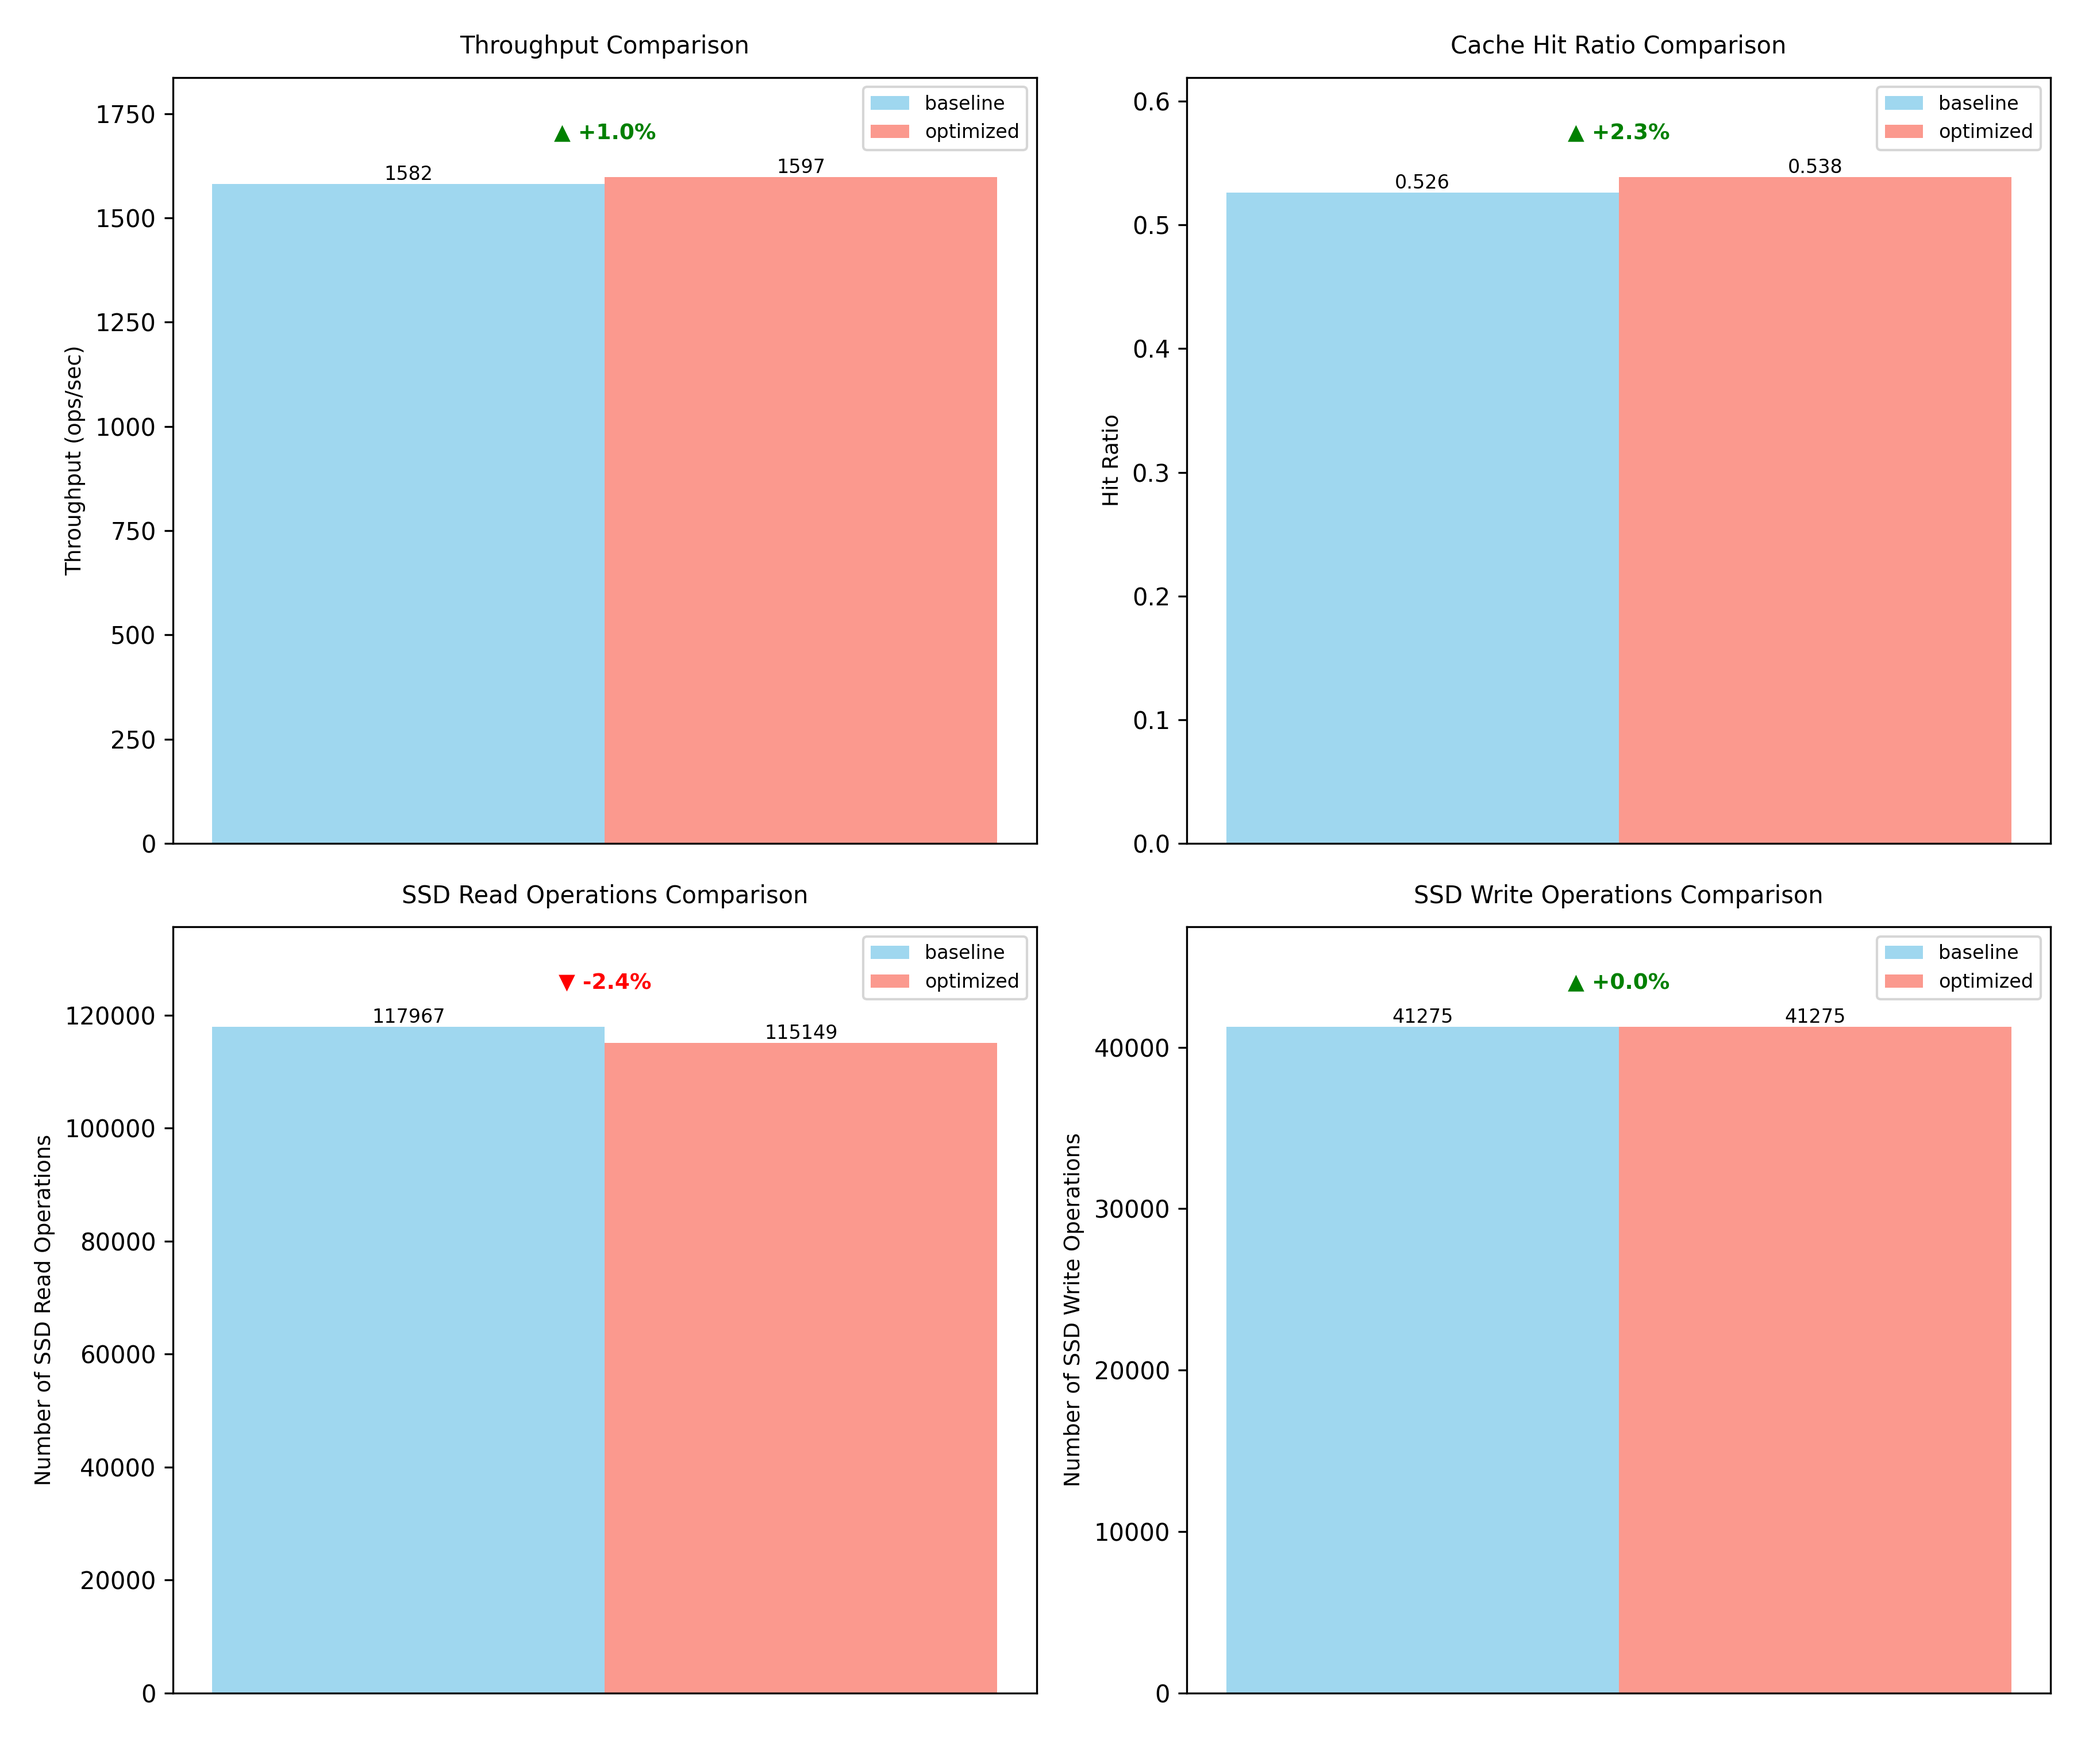
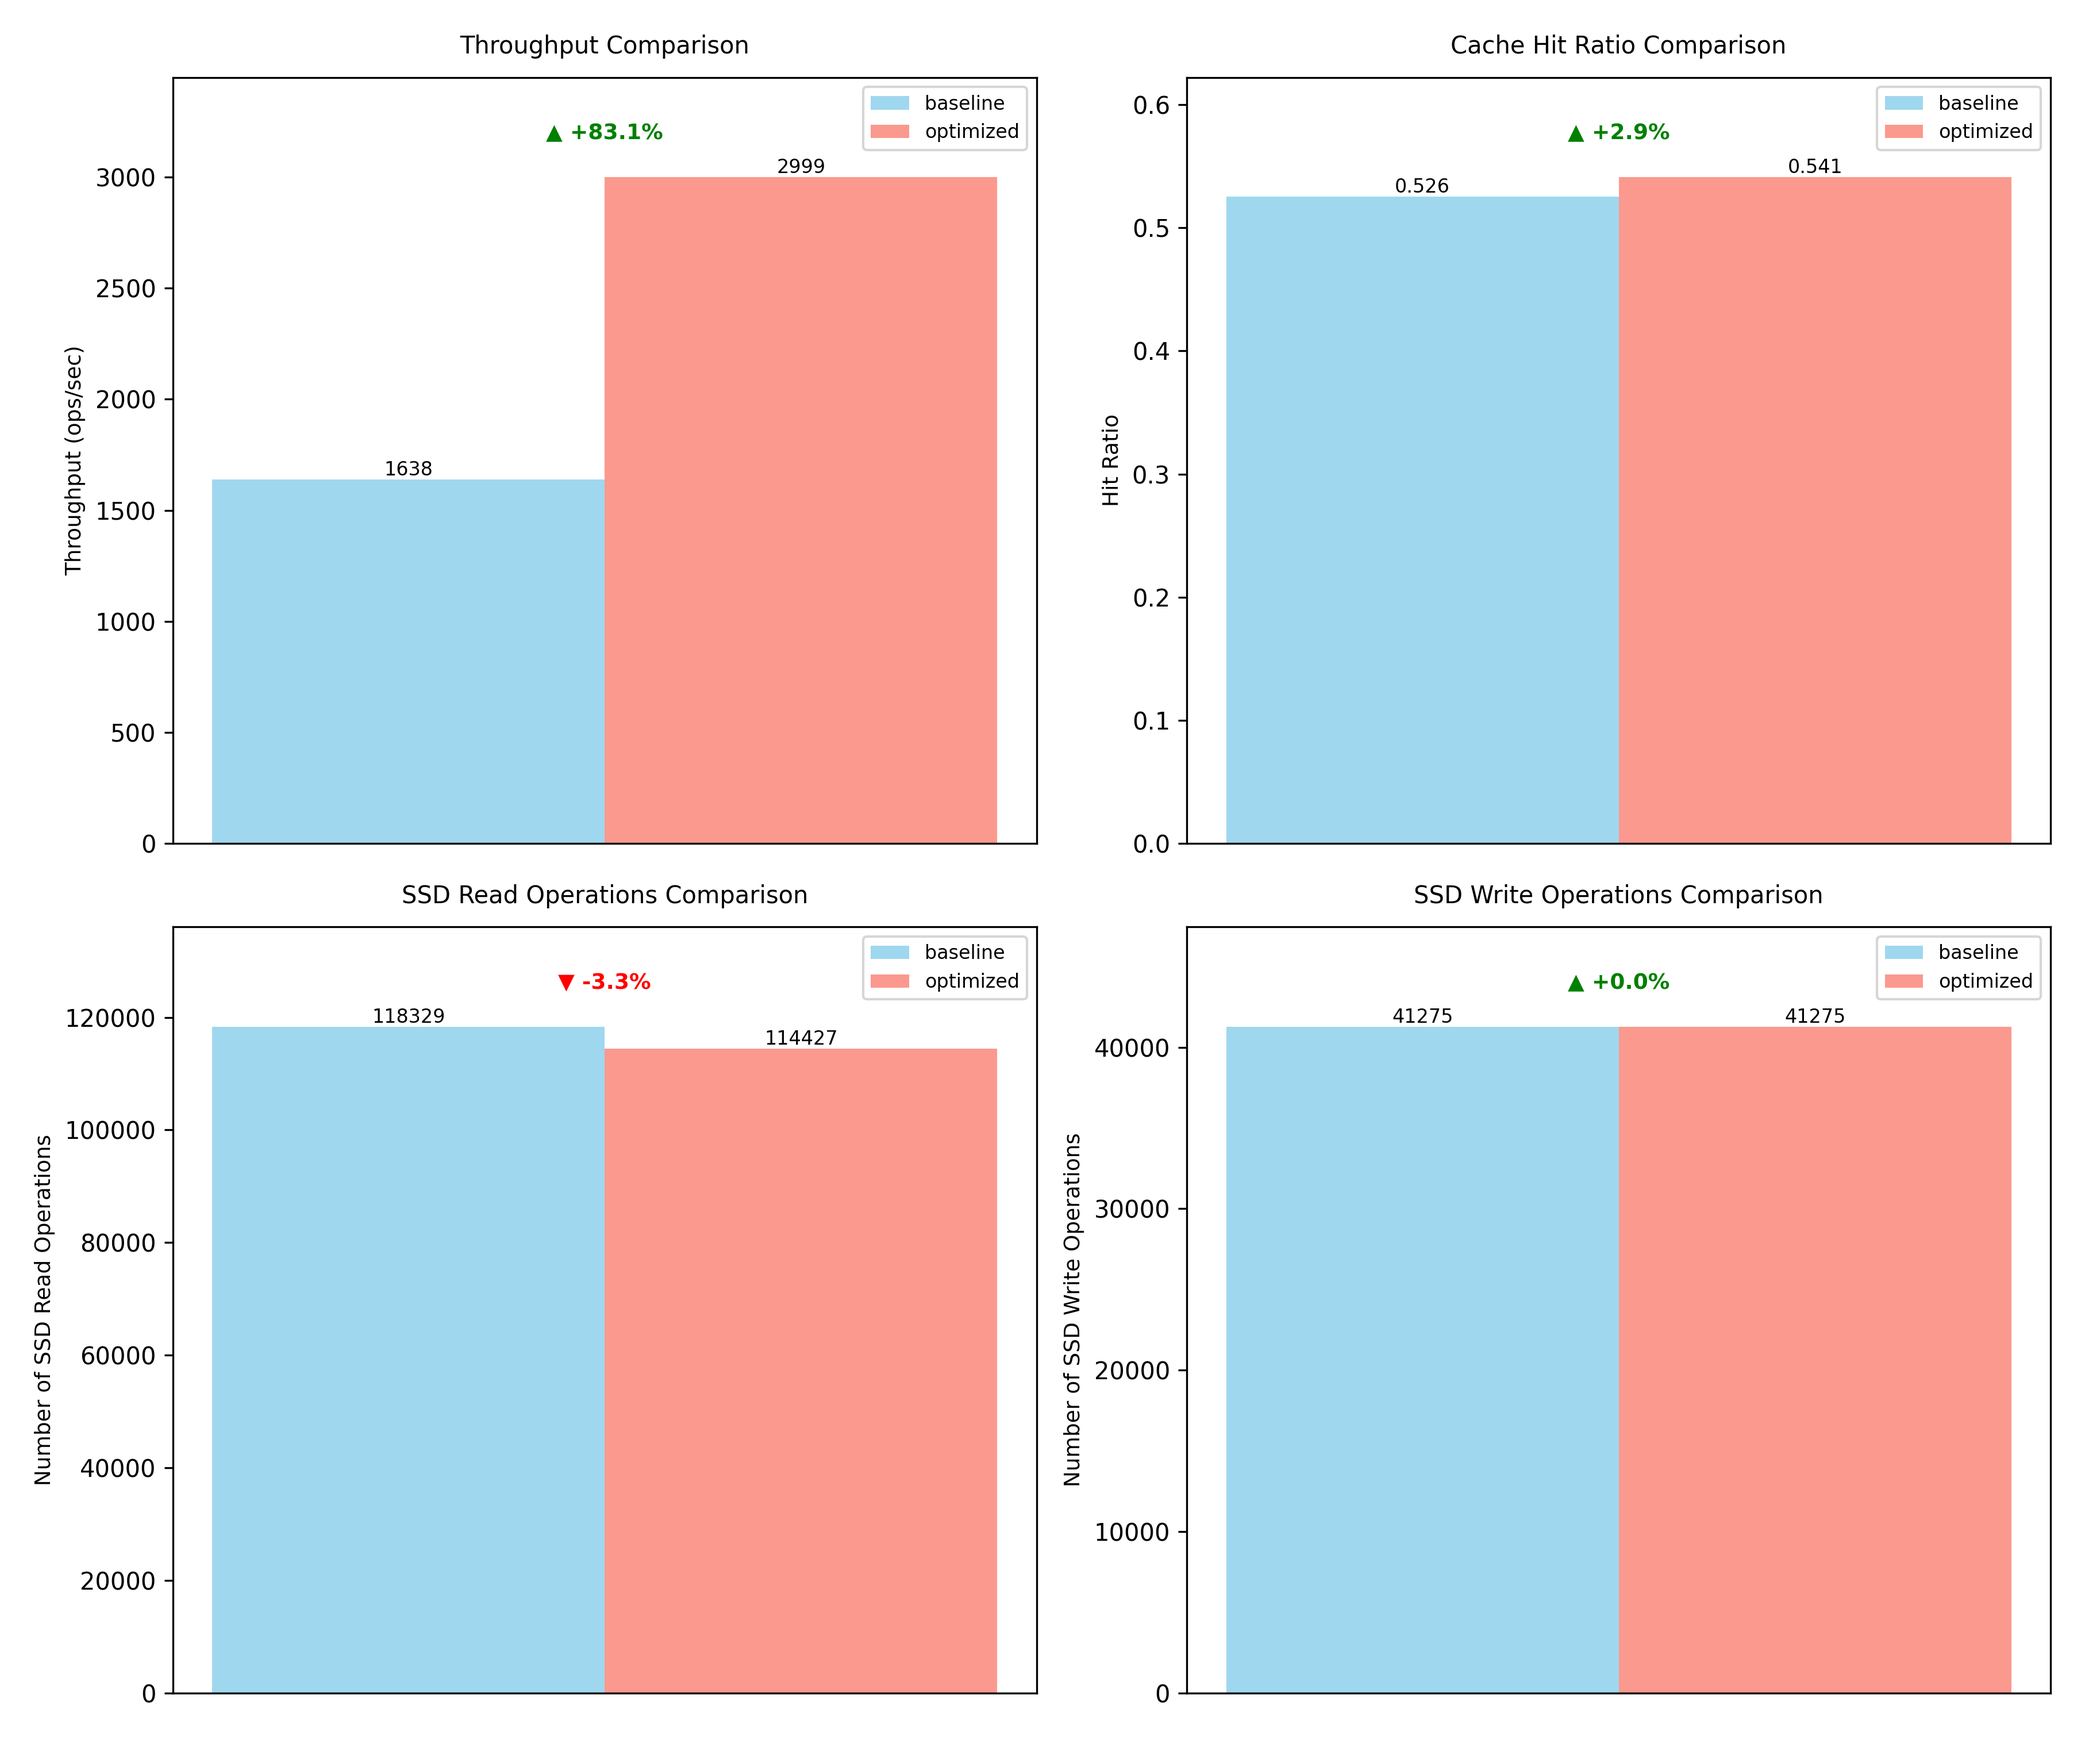
backup

diff --git a/src/main.rs b/src/main.rs
@@ -208,7 +208,7 @@ fn main() -> Result<(), DatabaseError> {
     let data_dir = PathBuf::from("data");
     std::fs::create_dir_all(&data_dir).unwrap();
 
-    let variants = vec![("optimized", 2), ("baseline", 40000)];
+    let variants = vec![("optimized", 3), ("baseline", 40000)];
     let mut all_results = Vec::new();
 
     // Run benchmark for each variant
